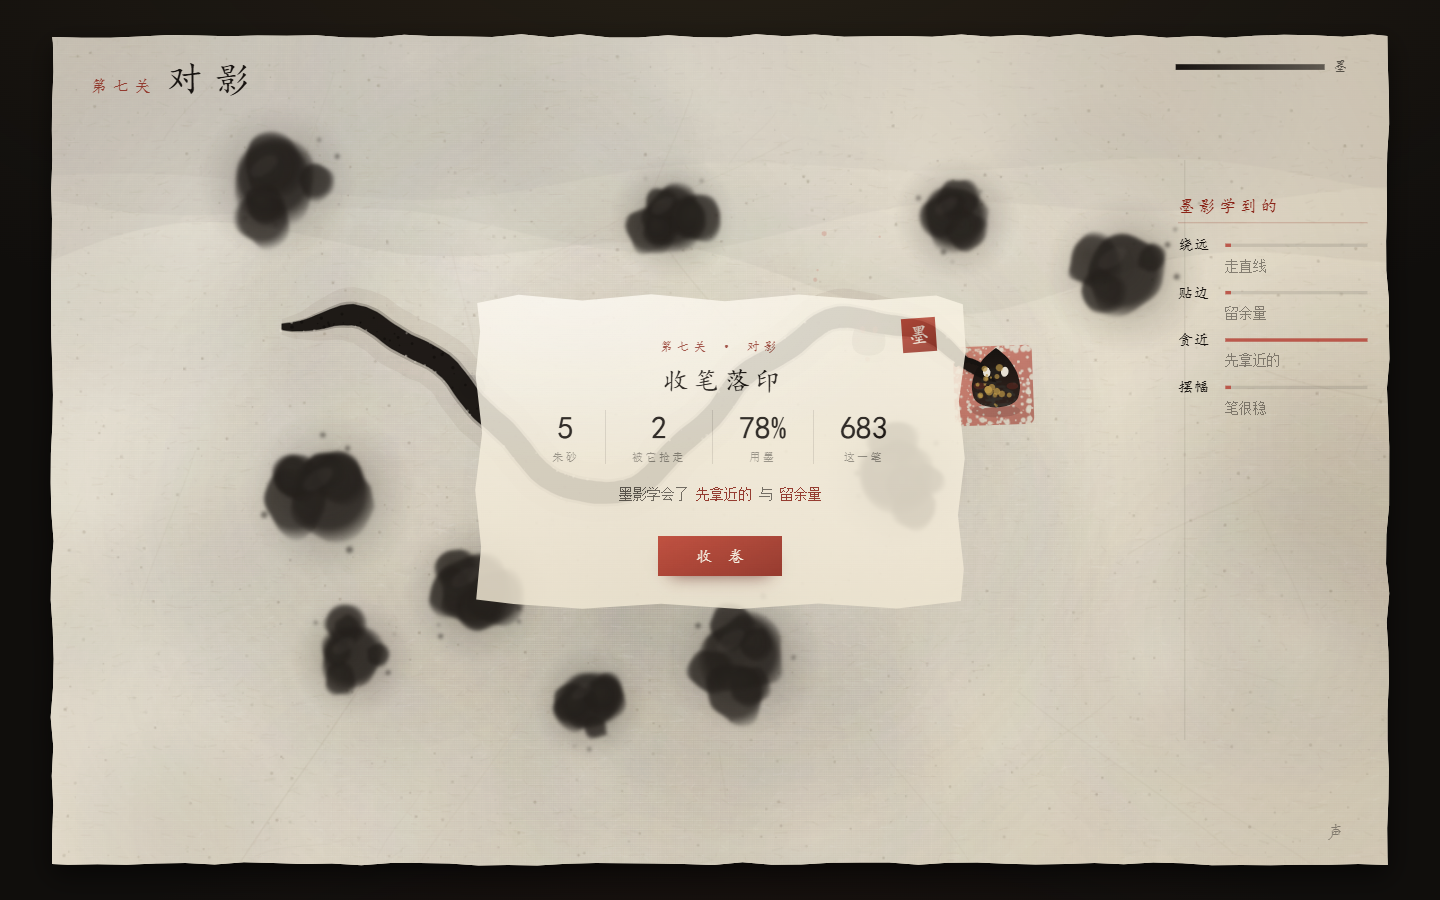
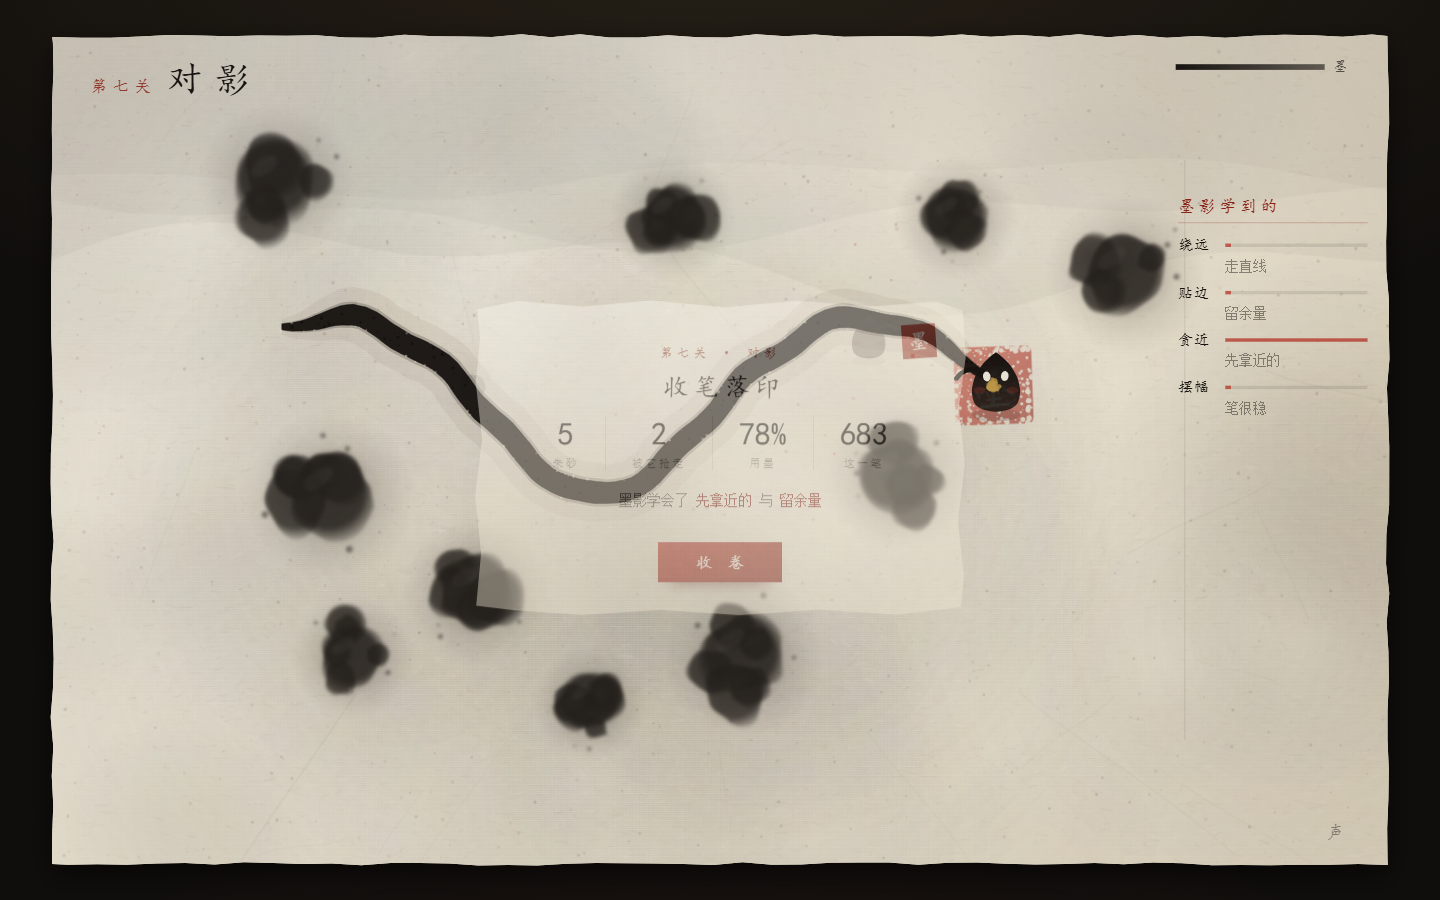
修用户报的两个 bug：光标不再隐藏、任意位置可起笔；失败笔画淡出并加强提示；加两条真实鼠标回归

Changed region(s): [[0.3125, 0.3111, 0.7188, 0.6844], [0.3125, 0.5911, 0.375, 0.6844]]

diff --git a/src/game.ts b/src/game.ts
@@ -3,7 +3,7 @@ import { catmullRom, clamp, dist, lerp, type Vec2 } from './core/geom';
 import { blendStyle, extractStyle, loudestTraits, NEUTRAL_STYLE, planShadow, type ShadowPlan, type Style } from './core/learn';
 import { BOARD, BRUSH_R, buildAllLevels, DOT_R, GOAL_R, type Level } from './core/levels';
 import { blockedByHazard, evaluateStroke, scoreLevel } from './core/stroke';
-import { CINNABAR, drawBrushPath, drawInkChild, INK, makeDotSprite, makeHazardSprite, makeSealSprite } from './render/ink';
+import { CINNABAR, drawBrushPath, drawInkChild, makeDotSprite, makeHazardSprite, makeSealSprite } from './render/ink';
 import { makePaperTexture, paperPath } from './render/paper';
 import { UI } from './ui';
 
@@ -165,23 +165,28 @@ export class Game {
     const down = (e: PointerEvent) => {
       if (this.phase !== 'draw') return;
       const p = this.toLogical(e.clientX, e.clientY);
-      if (dist(p, this.level.start) > 64) {
-        this.flash('从墨童身上起笔。');
-        return;
-      }
       this.sound.ensure();
       this.canvas.setPointerCapture(e.pointerId);
       this.drawing = true;
       this.autoMode = false;
+      this.ghost = null;
       this.drawStartedAt = performance.now();
       this.stroke = [{ ...this.level.start }];
       this.lastPoint = { ...this.level.start };
       this.childAt = { ...this.level.start };
       this.blockedFlash = 0;
+      this.pointer = p;
+      // Pressing anywhere is fine: the stroke always begins at the ink child.
+      // The lead-in to the pointer is a real segment, so it obeys the blots too.
+      if (dist(p, this.level.start) > 8) {
+        this.extendStroke(p);
+        if (this.stroke.length === 1) this.flash('起笔被墨渍挡住了，换个方向按下去。');
+      }
     };
     const move = (e: PointerEvent) => {
-      if (!this.drawing) return;
       const p = this.toLogical(e.clientX, e.clientY);
+      this.pointer = p;
+      if (!this.drawing) return;
       this.extendStroke(p);
     };
     const up = () => {
@@ -194,7 +199,12 @@ export class Game {
     this.canvas.addEventListener('pointermove', move);
     this.canvas.addEventListener('pointerup', up);
     this.canvas.addEventListener('pointercancel', up);
-    this.canvas.addEventListener('pointerleave', up);
+    this.canvas.addEventListener('pointerleave', (e) => {
+      this.pointer = null;
+      if (!this.drawing) return;
+      // keep drawing when the pointer leaves with capture; only end on a real leave
+      if (!(e.buttons & 1)) up();
+    });
     this.canvas.addEventListener('contextmenu', (e) => e.preventDefault());
   }
 
@@ -246,6 +256,7 @@ export class Game {
       else if (!result.reachedGoal) this.flash('收笔要落在印上。');
       else if (missing > 0) this.flash(`还差 ${missing} 颗朱砂。`);
       else this.flash('再试一笔。');
+      this.ghost = { points: this.stroke.slice(), alpha: 0.55 };
       this.stroke = [];
       this.lastPoint = null;
       this.childAt = { ...this.level.start };
@@ -362,6 +373,11 @@ export class Game {
 
   private update(dt: number): void {
     if (this.blockedFlash > 0) this.blockedFlash = Math.max(0, this.blockedFlash - dt);
+    if (this.ghost) {
+      this.ghost.alpha -= dt * 1.15;
+      if (this.ghost.alpha <= 0) this.ghost = null;
+    }
+    if (this.toast && performance.now() > this.toast.until) this.toast = null;
     if (this.phase === 'title') this.titleT += dt;
     this.updateParticles(dt);
 
@@ -672,6 +688,14 @@ export class Game {
       ctx.restore();
     }
 
+    // the stroke you just gave up on, fading out so you can see what happened
+    if (this.ghost && this.ghost.points.length > 1) {
+      ctx.save();
+      ctx.globalAlpha = Math.max(0, this.ghost.alpha);
+      drawBrushPath(ctx, this.ghost.points, { color: '#6b5c4b', width: 8.6, alpha: 0.5, wet: 0.4, seed: 9 });
+      ctx.restore();
+    }
+
     // current stroke
     if (this.stroke.length > 1) {
       ctx.save();
@@ -696,6 +720,7 @@ export class Game {
     this.drawShadowChild(ctx, time);
     this.drawChild(ctx, time);
     this.drawParticles(ctx);
+    this.syncCursor();
 
     if (this.blockedFlash > 0) {
       ctx.save();
@@ -706,8 +731,9 @@ export class Game {
     }
     ctx.restore();
 
-    // cursor: a small brush dot while drawing
+    // cursor: a brush ring at the pointer while drawing
     if (this.phase === 'draw') this.drawCursor(ctx);
+    this.drawToast(ctx);
   }
 
   /** The title screen is the game itself, idling: a stroke drawn, a walk, a reset. */
@@ -815,28 +841,56 @@ export class Game {
   }
 
   private drawCursor(ctx: CanvasRenderingContext2D): void {
-    const mouse = this.pointer;
-    if (!mouse) return;
+    const at = this.pointer;
+    const s = this.scale || 1;
+    if (!at) return;
+    // the ring is a hairline in screen pixels, so it stays crisp at any zoom
     ctx.save();
-    ctx.globalAlpha = this.drawing ? 0.55 : 0.3;
-    ctx.strokeStyle = INK;
-    ctx.lineWidth = 1;
+    ctx.lineWidth = 1 / s;
+    ctx.strokeStyle = this.drawing ? 'rgba(23,19,15,0.55)' : 'rgba(23,19,15,0.34)';
     ctx.beginPath();
-    ctx.arc(mouse.x, mouse.y, this.drawing ? 3 : 7, 0, Math.PI * 2);
+    ctx.arc(at.x, at.y, (this.drawing ? 4 : 9) / s, 0, Math.PI * 2);
     ctx.stroke();
+    if (!this.drawing) {
+      ctx.fillStyle = 'rgba(23,19,15,0.55)';
+      ctx.beginPath();
+      ctx.arc(at.x, at.y, 1.6 / s, 0, Math.PI * 2);
+      ctx.fill();
+    }
+    ctx.restore();
+  }
+
+  private drawToast(ctx: CanvasRenderingContext2D): void {
+    if (!this.toast) return;
+    const left = this.toast.until - performance.now();
+    const a = clamp(left / 420, 0, 1);
+    ctx.save();
+    ctx.globalAlpha = a * 0.92;
+    ctx.font = '23px "KaiTi","STKaiti",serif';
+    ctx.textAlign = 'center';
+    ctx.fillStyle = 'rgba(23,19,15,0.9)';
+    ctx.fillText(this.toast.text, LOGICAL_W / 2 - 50, 74);
     ctx.restore();
   }
 
   private pointer: Vec2 | null = null;
-
-  setPointer(p: Vec2 | null): void {
-    this.pointer = p;
-  }
+  private ghost: { points: Vec2[]; alpha: number } | null = null;
+  private toast: { text: string; until: number } | null = null;
+  private cursorKind = '';
 
   private flash(msg: string): void {
     this.hintFlash = msg;
     this.hintUntil = performance.now() + 2200;
+    this.toast = { text: msg, until: performance.now() + 1900 };
     this.ui.flashHint(msg);
+  }
+
+  /** the mouse must always be visible: crosshair where a brush is expected */
+  private syncCursor(): void {
+    const kind = this.phase === 'draw' ? 'crosshair' : 'default';
+    if (kind === this.cursorKind) return;
+    this.cursorKind = kind;
+    this.canvas.style.cursor = kind;
   }
 
   get transientHint(): string {

diff --git a/src/main.ts b/src/main.ts
@@ -6,13 +6,6 @@ if (!canvas) throw new Error('missing #stage');
 
 const game = new Game(canvas);
 
-// pointer position drives the in-canvas brush cursor
-canvas.addEventListener('pointermove', (e) => {
-  const rect = canvas.getBoundingClientRect();
-  game.setPointer({ x: e.clientX - rect.left, y: e.clientY - rect.top });
-});
-canvas.addEventListener('pointerleave', () => game.setPointer(null));
-
 // a tiny hook so the end-to-end test can drive the real build without dials
 declare global {
   interface Window {

diff --git a/src/styles.css b/src/styles.css
@@ -45,7 +45,7 @@ body {
   width: 100%;
   height: 100%;
   touch-action: none;
-  cursor: none;
+  cursor: default;
 }
 
 .hud {

diff --git a/docs/04-PROOF.md b/docs/04-PROOF.md
@@ -14,7 +14,7 @@
 | AC-2/5 阻挡与完成判定 | 同上 | 23 passed |
 | AC-6/7 学习模型与墨影 | 同上 | 23 passed |
 | AC-8 构建与相对路径 | `bash scripts/verify.sh` | all checks passed |
-| AC-9/10/11 浏览器全流程、无 console 错误、414px | `node scripts/e2e.mjs` | 10 checks passed |
+| AC-9/10/11 浏览器全流程、真实鼠标拖动、光标可见、无 console 错误、414px | `node scripts/e2e.mjs` | 12 checks passed |
 | AC-12 创空间静态 | `ms_deploy.json` + 根 `index.html` | 见 §4 |
 | AC-13 无密钥 | `verify.sh` 的 `no api keys committed` | PASS |
 
@@ -30,8 +30,11 @@
 
 ```
 PASS  title screen
+PASS  system cursor is never hidden
 PASS  starts on level 1 in draw phase
-PASS  level 1 completes
+PASS  brush cursor in the play phase
+PASS  a press far from the child still draws ink
+PASS  tracing the route with a real mouse completes level 1
 PASS  shadow takes at least one dot before the player draws
 PASS  shadow never takes more than 40 % of the dots
 PASS  shadow level still solvable with the reference route
@@ -58,6 +61,11 @@ PASS  no console errors
 - 创空间：**待用户部署**（步骤见 `06-SUBMIT-STEPS.md`）。静态托管要求根目录 `index.html` + `assets/`，本仓库 `ms_deploy.json` 已按 `sdk_type: static` 写好。
 - 线上实测：对 Pages 地址跑 `BASE_URL=https://hkmpn9s6dh-commits.github.io/hackathon-2026-mo-tong/ node scripts/e2e.mjs`，10 项全过（2026-11-13）。
 - 创空间部署后的冒烟：把 `BASE_URL` 指到创空间地址，同一套 10 项应全过。
+
+## 4.5 用户报的两个 bug（2026-11-13 已修，已加回归）
+
+1. **首页鼠标几乎看不见**：`#stage { cursor: none }` 把系统指针整屏藏了，只有按钮上能偶然露出原生指针。改为：`default` / 落笔时 `crosshair`，画布内的笔尖圆环改成按逻辑坐标绘制（原来用的是 CSS 像素，位置是错的）。回归：`system cursor is never hidden`、`brush cursor in the play phase`。
+2. **第一关怎么拖都拖不动**：起笔点必须在墨童 64px 内，否则**一点墨都不出**；即使起笔成功，一笔不完整就静默清空。改为：**纸上任意位置按下都从墨童起笔**（连向指针的那一段照旧受墨渍阻挡），被挡时给明确提示；放弃的笔画以淡墨淡出而不是瞬间消失；失败原因用画布顶部的大字提示（原来是 16px 小字，容易被忽略）。回归：`a press far from the child still draws ink`、`tracing the route with a real mouse completes level 1`。
 
 ## 5. 已知边界（如实写在前面）
 
